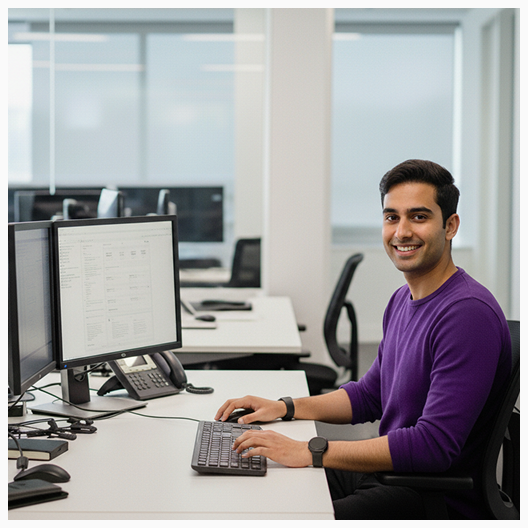
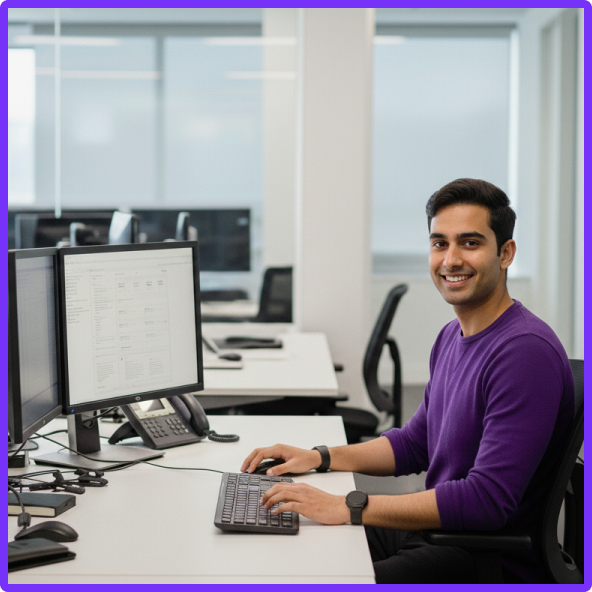
changes in the for engineers section

diff --git a/src/components/sections/ForEngineers/index.tsx b/src/components/sections/ForEngineers/index.tsx
@@ -31,11 +31,11 @@ const ForEngineers = () => {
       role: "Data Platform Engineers",
       icon: "/assets/business-avatar1.svg",
       tasks: [
-        "Design the storage and processing systems that power large-scale data workloads.",
-        "Setting up CI/CD workflows for data and AI components",
-        "Set up and maintain ETL/ELT pipelines and the orchestration systems that run them.",
-        "Tune compute, storage, and cloud resources for efficiency and reliability.",
-        "Supporting cross-functional teams across the pool",
+        "Develop and maintain an internal platform to enable Engineers to efficiently deploy their infrastructure needs.",
+        "Implement and manage the CI/CD pipeline, standardizing how Engineers reliably ship software within the environment.",
+        "Architect and secure the cloud networking infrastructure that supports all data tools.",
+        "Set up the Observability stack to monitor the performance and reliability of Data Tools and their underlying infrastructure.",
+        "Implement a FinOps pipeline for continuous tracking of cloud spend across all engineering teams.",
       ],
       initial: { y: -50 },
       position: "lg:top-0 lg:left-1/2 lg:-translate-x-1/2 lg:z-20",
@@ -44,11 +44,12 @@ const ForEngineers = () => {
       role: "Data Engineers",
       icon: "/assets/business-avatar2.svg",
       tasks: [
-        "Designing and building data ingestion pipelines",
-        "Structuring datasets for analytics, ML, or operational use",
-        "Working with transformations, ETL/ELT flows, and storage layers",
-        "Ensuring data quality, reliability, and accessibility",
-        "Collaborating with ML engineers to provide training-ready data",
+        "Design, develop, and maintain robust data systems for processing and storage.",
+        "Engineer scalable, secure, and cost-effective ETL/ELT data pipelines.",
+        "Construct real-time data pipelines utilizing Kafka as the source.",
+        "Establish Data Quality Frameworks to ensure the accuracy and reliability of data.",
+        "Provide essential data support for ML Engineer teams to train machine learning models.",
+        "Implement pipeline observability stacks for comprehensive monitoring of ETL jobs.",
       ],
       initial: { x: -50 },
       position: "lg:bottom-0 lg:left-20 lg:z-20",
@@ -57,11 +58,11 @@ const ForEngineers = () => {
       role: "Machine Learning Engineers",
       icon: "/assets/business-avatar1.svg",
       tasks: [
-        "Building features, pipelines, and model training workflows",
-        "Preparing and validating datasets for model development",
-        "Supporting deployment of ML models into usable environments",
-        "Monitoring performance and refining workflows",
-        "Collaborating with platform engineers to ensure scalable systems",
+        "Build and maintain automated platforms to manage the end-to-end life cycle of model training, experimentation, and versioning.",
+        "Architect automated pipelines to transition models from research to production using containerization and orchestration.",
+        "Design and scale high-performance endpoints to deliver real-time predictions with minimal latency and resource consumption.",
+        "Implement tracking systems to detect model drift and performance degradation in live production environments.",
+        "Manage centralized feature stores to ensure consistent and high-quality data is available for both training and inference.",
       ],
       initial: { x: 50 },
       position: "lg:bottom-0 lg:right-20 lg:z-20",
@@ -77,17 +78,15 @@ const ForEngineers = () => {
               For Engineers
             </span>
             <h2 className="max-w-4xl lg:text-[48px] text-[28px] font-semibold lg:leading-14 leading-8 text-[#2F1464]">
-              What You’ll Work On as an Engineer in the Pool
+              Your Tasks in the Pool
             </h2>
             <p className="max-w-174.5 pt-2 text-[#5C5C5C]">
-              Engineers gain experience building scalable data platforms that
-              support AI and analytics workloads, working across Data, Data
-              Platform, and Machine Learning engineering.
+              What is under the Your Task in the Pool
             </p>
           </div>
         </ScrollReveal>
 
-        <div className="relative mx-auto max-w-300 lg:h-212.5">
+        <div className="relative mx-auto max-w-300 lg:h-282.5">
           <motion.div
             initial={{ opacity: 0 }}
             whileInView={{ opacity: 1 }}
